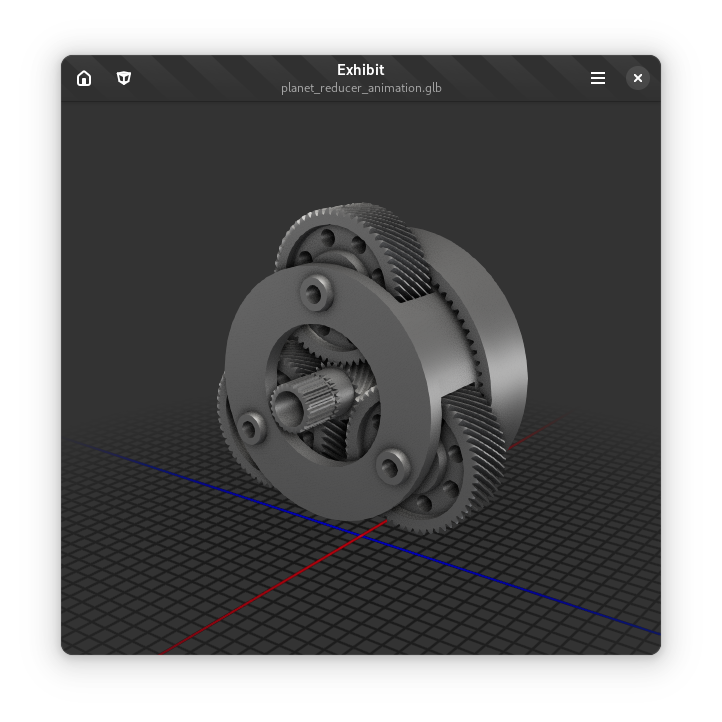
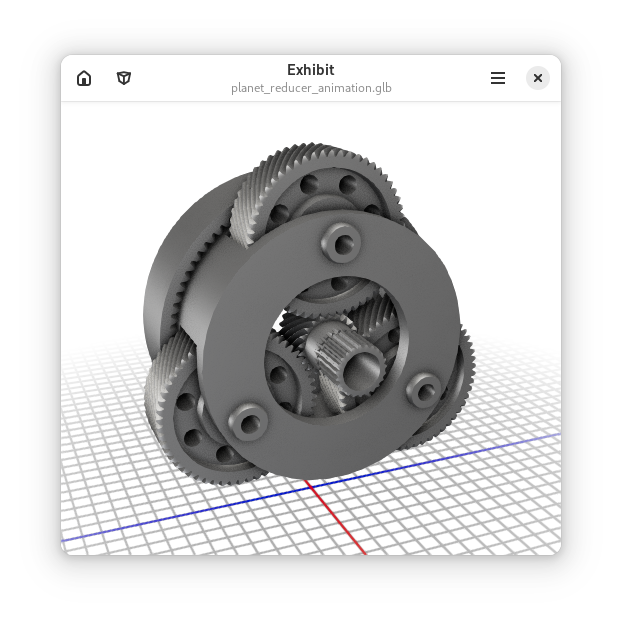
improved screenshots

diff --git a/README.md b/README.md
@@ -15,6 +15,12 @@ View 3D models, powered by the [F3D](https://github.com/f3d-app/f3d) library tha
   <img src="data/resources/screenshot 3.png" height="400"/>
   </div>
 
+### Screenshots Credits
+- [Planetary reducer](https://sketchfab.com/3d-models/planet-reducer-animation-273823b0b7014a31a1ef2e1148ca8205)
+- [Retro computer setup](https://sketchfab.com/3d-models/retro-computer-setup-free-82eaf2047e0447a1bfea22482f1d1404)
+- [Benchy](https://www.printables.com/model/3161-3d-benchy#preview:file-3QVl)
+- [Nissan Fairlady](https://sketchfab.com/3d-models/nissan-fairlady-z-s30240z-1978-0d9286ebb8cc426e993e1d398b874a34)
+
 ## Installation
 
 ### From latest build
